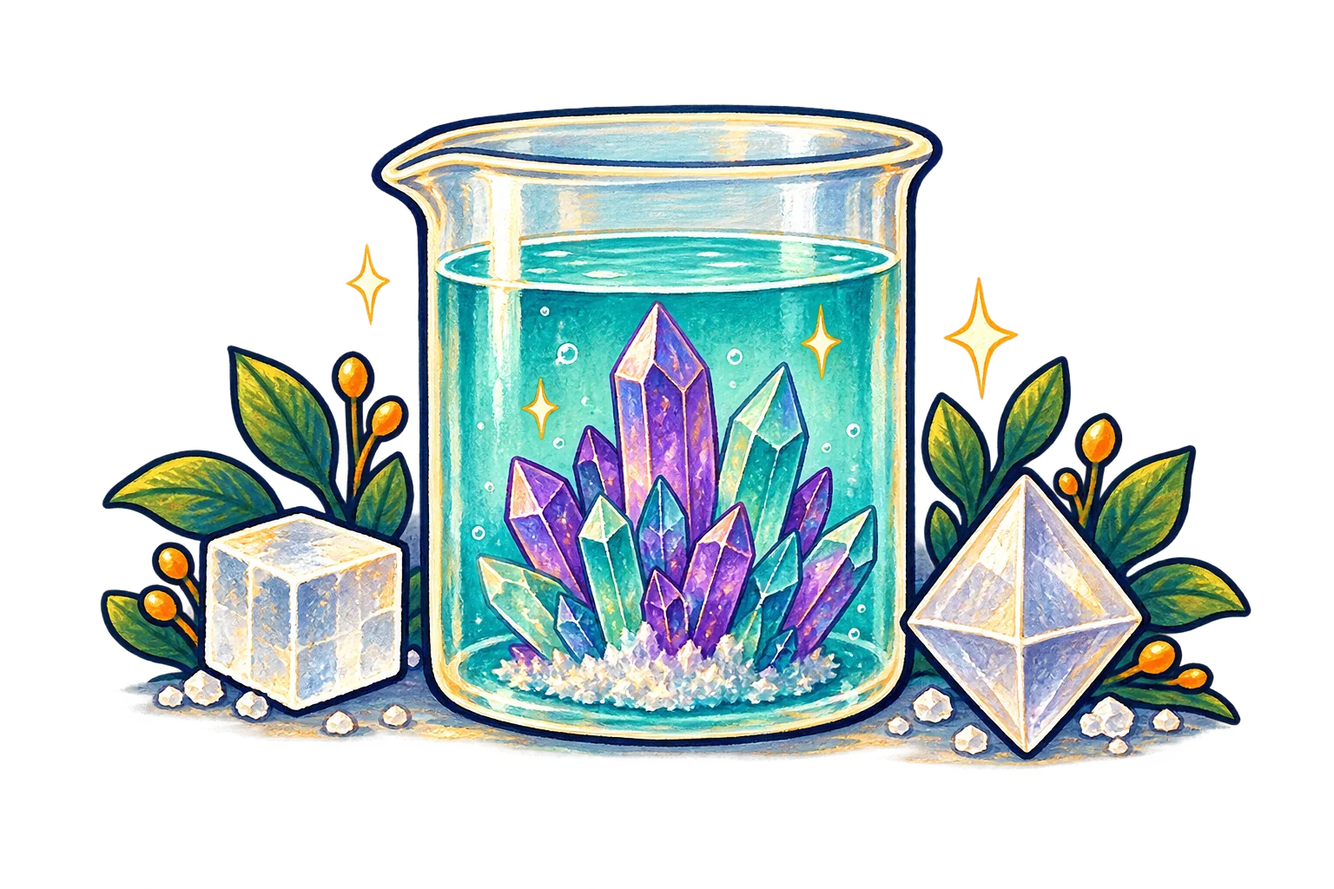
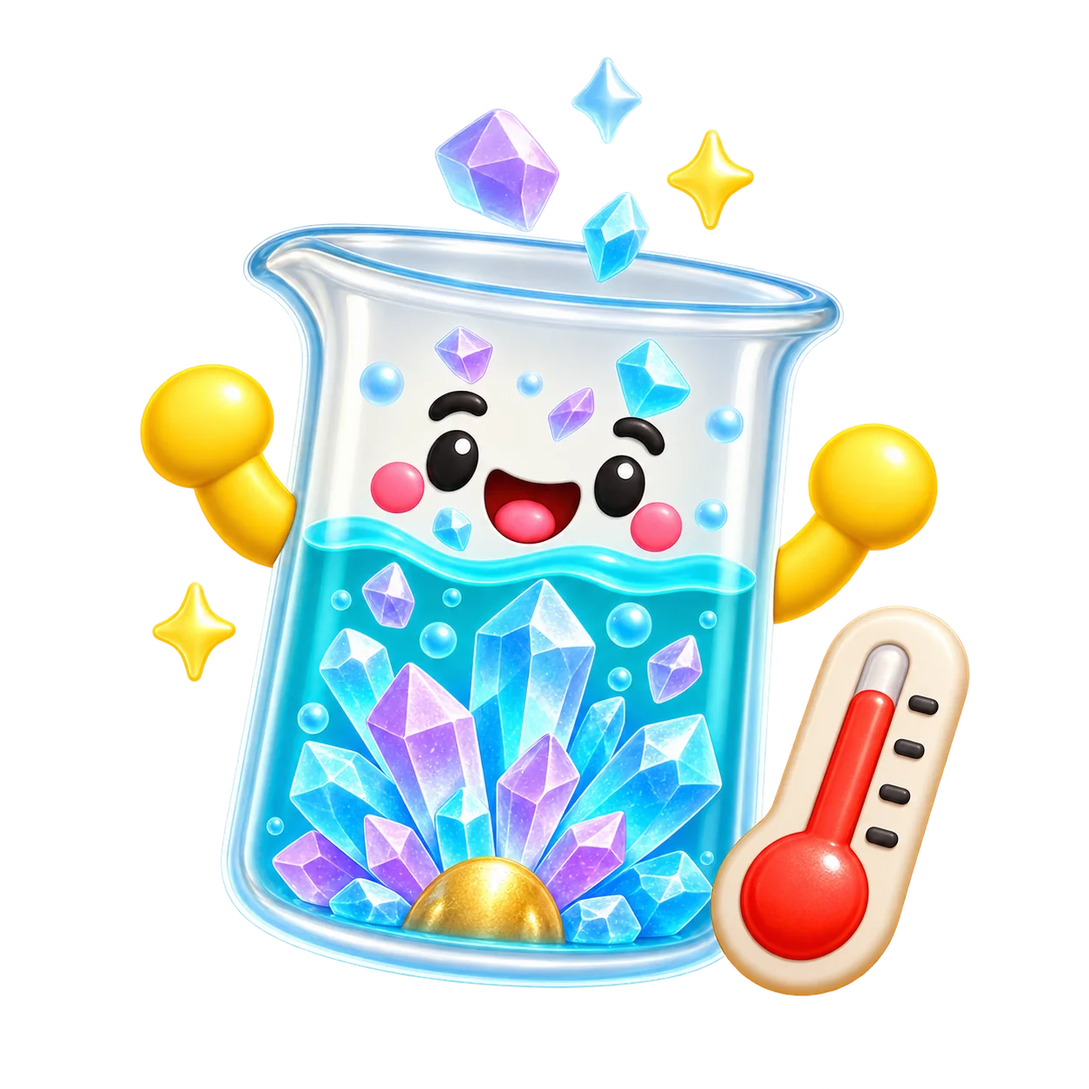
更新晶體花園溫度過飽和模型、晶簇動畫及實物圖鑑（v1.2.6）

diff --git a/client/src/games/CrystalGame.tsx b/client/src/games/CrystalGame.tsx
@@ -1,83 +1,78 @@
 import { useState } from "react";
 import { motion } from "framer-motion";
 import { speak } from "@/lib/speech";
+import { initial, capacity, step, type CrystalAction } from "@/lib/crystalModel";
 
 const SPECIMENS = [
-  { name: "磷酸二氫銨", en: "ADP", shape: "四方柱配尖頂", type: "prism", color: "#9571dc", copy: "內部按四方晶系的規則重複排列，常長成帶尖頂的柱子。不同方向長得快慢不同。", formula: "NH₄H₂PO₄" },
-  { name: "明礬", en: "Alum", shape: "八面體", type: "octa", color: "#55bcb9", copy: "常見形狀像兩個方形金字塔底對底，共有八個三角形面。它屬於立方晶系，外形卻不一定是方塊！", formula: "KAl(SO₄)₂·12H₂O" },
-  { name: "食鹽", en: "Salt", shape: "立方體", type: "cube", color: "#e5aa51", copy: "鈉離子和氯離子有規則地交替排列，常長成方方正正的立方體。", formula: "NaCl" },
-  { name: "水晶", en: "Quartz", shape: "六邊柱配尖頂", type: "quartz", color: "#6fafe0", copy: "矽和氧連成重複的立體網絡。常見外形有六個柱面；常溫水晶屬於三方晶系。不是把粉倒進熱水就能種出來！", formula: "SiO₂" },
-] as const;
-
-function Gem({ type, color }: { type: string; color: string }) {
-  return <svg viewBox="0 0 180 200" role="img" aria-label={type === "cube" ? "立方體" : type === "octa" ? "八面體" : "帶尖頂的晶柱"} style={{ color }}>
-    {type === "cube" ? <g stroke="#18304c" strokeWidth="3"><path fill="currentColor" d="M25 60 90 25 155 60 155 140 90 178 25 140Z"/><path fill="#fff" opacity=".5" d="M25 60 90 25 155 60 90 98Z"/><path fill="#18304c" opacity=".2" d="M90 98 155 60 155 140 90 178Z"/><path fill="none" d="M25 60 90 98 155 60M90 98V178"/></g>
-    : type === "octa" ? <g stroke="#18304c" strokeWidth="3"><path fill="currentColor" d="M90 15 165 100 90 185 15 100Z"/><path fill="#fff" opacity=".45" d="M90 15V118L15 100Z"/><path fill="#18304c" opacity=".2" d="M90 118 165 100 90 185Z"/><path fill="none" d="M15 100 90 118 165 100M90 15V185"/></g>
-    : <g stroke="#18304c" strokeWidth="3"><path fill="currentColor" d="M90 10 140 65 140 165 90 190 40 165 40 65Z"/><path fill="#fff" opacity=".5" d="M90 10 90 85 40 65Z"/><path fill="#18304c" opacity=".2" d="M90 85 140 65 140 165 90 190Z"/><path fill="none" d="M40 65 90 85 140 65M90 85V190"/>{type === "quartz" && <path fill="none" d="M65 72V178M115 75V178"/>}</g>}
+  { name: "磷酸二氫銨", en: "ADP", id: "adp", shape: "四方柱 · 尖頂", copy: "像有尖屋頂的小柱子！內部按四方晶系的規則重複排列，常形成四方柱和錐形晶面。", formula: "NH₄H₂PO₄", file: "Ammonium_Dihydrogen_Phosphate_crystals.jpg", author: "Damien Miller", license: "CC BY 3.0", url: "https://creativecommons.org/licenses/by/3.0/" },
+  { name: "明礬", en: "Alum", id: "alum", shape: "八面體", copy: "像兩個方形金字塔底對底，有八個三角形面。真實晶體的面不一定一樣大。", formula: "KAl(SO₄)₂·12H₂O", file: "Potassium_alum_octahedral_like_crystal.jpg", author: "Ude", license: "CC BY-SA 3.0", url: "https://creativecommons.org/licenses/by-sa/3.0/" },
+  { name: "食鹽", en: "Salt", id: "salt", shape: "立方體", copy: "像小方塊！鈉離子和氯離子有規則地交替排列，常形成互相垂直的方形晶面。這張實物有一個方向長得較長。", formula: "NaCl", file: "Halite-251628.jpg", author: "Rob Lavinsky, iRocks.com", license: "CC BY-SA 3.0", url: "https://creativecommons.org/licenses/by-sa/3.0/" },
+  { name: "水晶", en: "Quartz", id: "quartz", shape: "六方柱外形 · 多面尖頂", copy: "找找六個柱面和頂端的斜面！常溫水晶屬於三方晶系，常見外形卻是六方柱，尖頂由菱面體晶面組成，不是四角金字塔。", formula: "SiO₂", file: "Quartz_Crystal.jpg", author: "USGS", license: "公有領域", url: "https://www.usgs.gov/information-policies-and-instructions/copyrights-and-credits" },
+];
+const hints: Record<CrystalAction, string> = {
+  add: "晶粉先沉到底部，攪拌看看能溶多少。", stir: "攪拌幫晶粉溶解，但不能超過現在的平衡容量。",
+  heat: "升溫了！這種模型晶粉能溶得更多。試試攪拌，再降溫。", cool: "降溫讓容量減少；已溶解的粒子若超過容量，就是過飽和！",
+  seed: "半圓晶種是排隊起點。按「過一天」，看看不同方向的晶柱！", day: "蒸發了 15 ml 水。多出的粒子可以加入晶簇；沒有晶種時，過飽和可能暫時保留。",
+  water: "加了 15 ml 水，容量增加；原來的晶體也可能重新溶解。",
+};
+function Cluster({ amount, seeded }: { amount: number; seeded: boolean }) {
+  return <svg className="crystal-cluster" viewBox="0 0 260 250" role="img" aria-label="半圓晶種與向不同方向生長的晶簇">
+    <defs><linearGradient id="crystal-facet" x2="1" y2="1"><stop stopColor="#e2dbff"/><stop offset=".5" stopColor="#a784ed"/><stop offset="1" stopColor="#5a9dd1"/></linearGradient></defs>
+    {[-65, -43, 37, 62, -22, 19, -5, 48, -48].map((angle, i) => {
+      const growth = Math.min(1, Math.max(0, amount - i * .25) / (12 + i % 3 * 3));
+      return <g key={angle} transform={`translate(${130 + (i % 3 - 1) * 13} 220) rotate(${angle})`}>
+        <motion.path initial={false} animate={{ d: `M${-13 * Math.min(1,growth*2)} 0V${-114*growth}L0 ${-142*growth} ${16*Math.min(1,growth*2)} ${-112*growth}V0Z`, opacity: growth > 0 ? 1 : 0 }} transition={{ duration: 1.8, delay: i * .07 }} fill="url(#crystal-facet)" stroke="#68529b" strokeWidth="1.4"/>
+        <motion.path initial={false} animate={{ d: `M0 0V${-109*growth}L${-13*Math.min(1,growth*2)} ${-114*growth} 0 ${-142*growth} ${16*Math.min(1,growth*2)} ${-112*growth} 0 ${-109*growth}`, opacity: growth > 0 ? 1 : 0 }} transition={{ duration: 1.8, delay: i * .07 }} fill="#fff" fillOpacity=".36" stroke="#fff" strokeOpacity=".65"/>
+      </g>;
+    })}
+    {seeded && <g><path d="M96 226a34 34 0 0 1 68 0Z" fill="#eabd68" stroke="#b98337" strokeWidth="2"/><path d="M106 217a25 25 0 0 1 28-22" fill="none" stroke="#fff2be" strokeWidth="5" strokeLinecap="round"/></g>}
   </svg>;
 }
-
-type Sample = { temp: number; water: number; dissolved: number; powder: number; crystal: number; seeded: boolean; day: number };
-const initial: Sample = { temp: 80, water: 80, dissolved: 0, powder: 0, crystal: 0, seeded: false, day: 0 };
-const capacity = (s: Sample) => Math.round((4 + s.temp / 10) * s.water / 80);
-
 export default function CrystalGame() {
-  const [sample, setSample] = useState<Sample>(initial);
+  const [sample, setSample] = useState(initial);
   const [tab, setTab] = useState(0);
   const [specimen, setSpecimen] = useState(0);
-  const [layers, setLayers] = useState(1);
-  const [hint, setHint] = useState("先加幾匙晶粉，再按攪拌！");
+  const [hint, setHint] = useState("從 25°C、80 ml 水開始。先猜猜：升溫能溶進更多晶粉嗎？");
+  const [effect, setEffect] = useState({ action: "", tick: 0 });
   const cap = capacity(sample);
   const status = sample.dissolved > cap ? "過飽和" : sample.dissolved === cap ? "飽和" : "未飽和";
-  const info = sample.dissolved > cap ? "水裡暫時擠着太多已溶解的粒子，晶種可以幫它們排隊。" : sample.dissolved === cap ? "在這個溫度和水量下，已達到平衡溶解容量。" : "現在還能溶進更多晶粉。";
-  const material = SPECIMENS[specimen];
-  const act = (action: "add" | "stir" | "cool" | "seed" | "day" | "water") => {
-    setSample(s => {
-      const n = { ...s };
-      if (action === "add") { n.powder += 2; setHint("粉末先沉在底部。攪拌看看能溶多少！"); }
-      if (action === "stir") { const amount = Math.min(n.powder, Math.max(0, capacity(n) - n.dissolved)); n.powder -= amount; n.dissolved += amount; setHint(amount ? "粉末分散到水裡了，但沒有消失。" : "容量滿了！再攪拌也不能無限溶解。"); }
-      if (action === "cool") { n.temp = Math.max(20, n.temp - 20); setHint("降溫後，這種模型晶粉的平衡溶解容量變少了。"); }
-      if (action === "water") { n.water = Math.min(120, n.water + 20); setHint("水變多，能容納的晶粉也變多。"); }
-      if (action === "seed") { n.seeded = true; setHint("晶種是排隊起點。按「過一天」觀察！"); }
-      if (action === "day") {
-        n.day += 1; n.water = Math.max(20, n.water - 5);
-        const excess = Math.max(0, n.dissolved - capacity(n));
-        if (n.seeded || n.powder > 0) { n.dissolved -= excess; n.crystal += excess; }
-        const deficit = Math.max(0, capacity(n) - n.dissolved);
-        const redissolve = Math.min(n.crystal, deficit);
-        n.crystal -= redissolve; n.dissolved += redissolve;
-        setHint(excess && (n.seeded || n.powder > 0) ? "多出的粒子加入晶體，晶體長大了！" : redissolve ? "未飽和的水讓部分晶體重新溶解。" : "水慢慢蒸發。沒有晶種時，過飽和狀態可能暫時保留。");
-      }
-      // Undissolved powder provides nucleation surfaces: do not retain a supersaturated solution beside it.
-      if (n.powder > 0 && n.dissolved > capacity(n)) { const excess = n.dissolved - capacity(n); n.dissolved -= excess; n.crystal += excess; }
-      return n;
-    });
+  const info = sample.dissolved > cap ? `已溶解 ${sample.dissolved}，比現在的容量 ${cap} 多！晶種會幫多出的粒子排隊。` : sample.dissolved === cap ? "剛好到達這個溫度、水量下的平衡容量。" : "還有空間！升溫或加水，都能讓容量增加。";
+  const act = (action: CrystalAction) => {
+    const next = step(sample, action);
+    setSample(next); setEffect(e => ({ action, tick: e.tick + 1 }));
+    setHint(next.crystal < sample.crystal ? "容量增加了，部分晶體重新溶進水裡！" : next.crystal > sample.crystal ? "多出的粒子排在一起，晶柱朝不同方向慢慢長出來！" : hints[action]);
   };
+  const material = SPECIMENS[specimen];
   return <div className="game-body crystal-game">
-    <header className="crystal-hero"><div><small>CRYSTAL GARDEN · 晶體小花園</small><h1>把看不見的粒子，種成閃亮晶體</h1><p>天天的小實驗，變成一座可以探索的花園。</p></div><img src="/images/cards/crystal-garden.webp" alt="晶體花園插畫"/></header>
+    <header className="crystal-hero"><div><small>CRYSTAL GARDEN · 晶體小花園</small><h1>一杯水，種出閃亮小森林</h1><p>升溫、降溫、等一天，看看粒子怎樣排隊！</p></div><img src="/images/cards/crystal-garden.webp" alt="立體晶體小花園"/></header>
     <nav className="crystal-tabs">{["① 調一杯晶體水", "② 晶體形狀館"].map((title, i) => <button key={title} aria-pressed={tab === i} onClick={() => setTab(i)}>{title}</button>)}</nav>
     {tab === 0 ? <div className="crystal-workspace">
-      <section className="crystal-scene"><div className="crystal-scene-top"><b>第 {sample.day} 天</b><span>{sample.temp}°C · {sample.water} 份水</span></div>
-        <div className="crystal-vessel"><motion.div className="crystal-water" animate={{ height: `${sample.water / 120 * 75}%` }}>
-          {Array.from({ length: sample.dissolved }, (_, i) => <motion.i key={i} style={{ left: `${8 + i * 29 % 82}%`, top: `${8 + i * 19 % 65}%` }} animate={{ x: [-5, 7, -5], y: [0, -10, 0] }} transition={{ duration: 2 + i % 3, repeat: Infinity }}/>)}
-        </motion.div>
-        <div className="crystal-bed">{Array.from({ length: Math.min(24, sample.powder) }, (_, i) => <i key={i}/>)}</div>
-        {(sample.seeded || sample.crystal > 0) && <motion.div className="growing-gem" animate={{ scale: Math.min(1.6, .22 + sample.crystal * .095) }} transition={{ type: "spring", damping: 12 }}><Gem type="prism" color="#9270d8"/></motion.div>}
-        </div><div className="crystal-status"><h2>{status} <small>{status === "過飽和" ? "Supersaturated" : status === "飽和" ? "Saturated" : "Unsaturated"}</small></h2><p>{info}</p></div>
+      <section className="crystal-scene"><div className="crystal-scene-top"><b>第 {sample.day} 天</b><span>🌡 {sample.temp}°C · 💧 {sample.water} ml 毫升</span></div>
+        <div className={`crystal-vessel crystal-effect-${effect.action}`}>
+          <motion.div className="crystal-water" animate={{ height: `${sample.water / 140 * 83}%`, backgroundColor: sample.temp > 55 ? "#ffd5bd" : "#9be8ee" }} transition={{ duration: 1.2 }}>
+            {Array.from({ length: sample.dissolved }, (_, i) => <motion.i key={i} style={{ left: `${8 + i * 29 % 82}%`, top: `${8 + i * 19 % 72}%` }} animate={{ x: [-5, 7, -5], y: [0, -(sample.temp / 4), 0] }} transition={{ duration: 3 - sample.temp / 50 + i % 2, repeat: Infinity }}/>) }
+          </motion.div>
+          <div className="crystal-graduations" aria-hidden="true"><span>140 ml ─</span><span>100 ─</span><span>60 ─</span><span>20 ─</span></div>
+          <div className="crystal-bed">{Array.from({ length: Math.min(30, sample.powder) }, (_, i) => <i key={i}/>)}</div>
+          <Cluster amount={sample.crystal} seeded={sample.seeded}/>
+          <motion.div key={effect.tick} className="crystal-action-effect" initial={{ opacity: 1, y: 25 }} animate={{ opacity: 0, y: -60 }} transition={{ duration: 1.8 }}>{effect.action === "day" ? "☀ −15 ml" : effect.action === "water" ? "💧 +15 ml" : effect.action === "heat" ? "♨ +15°C" : effect.action === "cool" ? "❄ −15°C" : effect.action === "stir" ? "🌀" : ""}</motion.div>
+        </div>
+        <div className="crystal-capacity-chart"><b>溫度 ↑　平衡容量 ↑</b><div>{[25,40,55,70,85].map(t => <span key={t} className={sample.temp === t ? "active" : ""}><i style={{ height: 12 + (t - 25) * .6 }}/><strong>{capacity({ ...sample, temp: t })}</strong><small>{t}°C</small></span>)}</div><small>同樣 {sample.water} ml 水 · 晶粉粒子量（示意）</small></div>
+        <div className="crystal-status" data-status={status}><h2>{status} <small>{status === "過飽和" ? "Supersaturated" : status === "飽和" ? "Saturated" : "Unsaturated"}</small></h2><p>{info}</p></div>
         <div className="crystal-counts"><span>已溶解 <b>{sample.dissolved}</b></span><span>平衡容量 <b>{cap}</b></span><span>未溶粉末 <b>{sample.powder}</b></span><span>長成晶體 <b>{sample.crystal}</b></span></div>
       </section>
       <aside className="crystal-panel"><h2>你的實驗工具</h2><div className="crystal-tools">
-        <button disabled={sample.dissolved + sample.powder + sample.crystal >= 30} onClick={() => act("add")}>🥄 加兩份晶粉</button><button onClick={() => act("stir")}>🌀 攪拌溶解</button>
-        <button disabled={sample.temp <= 20} onClick={() => act("cool")}>❄ 降溫 20°C</button><button disabled={sample.seeded} onClick={() => act("seed")}>💎 放入晶種</button>
-        <button onClick={() => act("day")}>☀ 過一天</button><button disabled={sample.water >= 120} onClick={() => act("water")}>💧 加一點水</button>
-      </div><p className="crystal-hint" aria-live="polite">{hint}</p><button className="crystal-read" onClick={() => speak(hint + info, "zh")}>🔊 聽小提示</button>
-      <div className="crystal-mission"><h3>結晶 · Crystallization</h3><p>原本散在水裡的粒子，有規則地排在一起，變成固體晶體。</p><h3>試試這條探索路線</h3><p>加粉六次 → 攪拌 → 降溫 → 放晶種 → 過一天。</p><p>再加水，晶體會怎樣？</p></div>
-      <button onClick={() => { setSample(initial); setHint("新的實驗開始！"); }}>↺ 重新開始</button>
-      <small>這是示意模型，份數不是克數，也不是實驗配方。真實生長可能需要數天；過飽和也可能自行成核。種晶本身不計入晶粉份數。</small>
+        <button disabled={sample.temp >= 85} onClick={() => act("heat")}>♨ 升溫 15°C</button><button disabled={sample.temp <= 25} onClick={() => act("cool")}>❄ 降溫 15°C</button>
+        <button disabled={sample.dissolved + sample.powder + sample.crystal >= 40} onClick={() => act("add")}>🥄 加一匙晶粉</button><button onClick={() => act("stir")}>🌀 攪拌溶解</button>
+        <button disabled={sample.seeded} onClick={() => act("seed")}>🌱 放入半圓晶種</button><button disabled={sample.water < 15} onClick={() => act("day")}>☀ 過一天 −15 ml</button><button disabled={sample.water > 125} onClick={() => act("water")}>💧 加一點水 +15 ml</button>
+      </div><p className="crystal-hint" aria-live="polite">{hint}</p><button onClick={() => speak(hint + info, "zh")}>🔊 聽小提示</button>
+      <div className="crystal-mission"><h3>試試：熱水變冷水</h3><p>升溫兩次 → 加粉六次 → 攪拌 → 降溫兩次。</p><p>容量從 12 變成 6，已溶解的 12 還在水裡：過飽和了！</p><p>放晶種 → 過一天：粒子排隊，長成晶簇。</p><h3>結晶 · Crystallization</h3><p>分散的粒子按規則排好，變成固體。再升溫或加水，會怎樣？</p></div>
+      <button onClick={() => { setSample(initial); setHint("新的實驗：25°C、80 ml 水。先猜再試！"); setEffect({ action: "", tick: 0 }); }}>↺ 重新開始</button>
+      <small>水量單位：ml（毫升）。晶粉以模型粒子量計算，一匙＝2；不是克數或配方。溫度範圍 25–85°C；水少於 15 ml 時先加水。蒸發速度、容量和晶簇顏色均為教學示意；並非所有物質都同樣隨升溫增加溶解度。晶種本身不計入晶粉量。</small>
       </aside>
-    </div> : <section className="crystal-gallery"><div className="crystal-specimens">{SPECIMENS.map((s, i) => <button key={s.en} aria-pressed={specimen === i} onClick={() => { setSpecimen(i); setLayers(1); }}><Gem type={s.type} color={s.color}/><b>{s.name}</b><small>{s.en}</small></button>)}</div>
-      <div className="crystal-exhibit"><div className="crystal-large-gem"><motion.div key={specimen} animate={{ rotateY: [0, 22, 0], scale: .65 + layers * .07 }} transition={{ rotateY: { repeat: Infinity, duration: 5 }, scale: { duration: .5 } }}><Gem type={material.type} color={material.color}/></motion.div></div>
-<div><small>{material.formula}</small><h2>{material.name} · {material.shape}</h2><p>{material.copy}</p><button onClick={() => setLayers(n => n >= 5 ? 1 : n + 1)}>✨ {layers >= 5 ? "重新觀察" : "長大一層"}</button><button onClick={() => speak(material.copy, "zh")}>🔊 聽解說</button><p className="crystal-hint">粒子按自己的規則重複排列；各個晶面長得快慢不同，形成不同外形。不是杯子把晶體壓成這個形狀！</p><small>展示常見理想晶形。溫度、雜質和生長空間也會影響外觀；顏色只是方便辨認。放大動畫是形狀示意，並非原子排列圖。</small></div></div></section>}
-    <details className="crystal-notes"><summary>給大人的實驗筆記與資料來源</summary><p>照片介紹熱水溶解、冷卻、加入晶種及靜置 4–7 天，但未列出晶粉成分，不能確認是哪種物質。套裝晶體不等於二氧化矽水晶。熱水與晶粉由成人處理，勿品嚐；依原套裝說明操作。</p><p>食鹽的溶解度隨溫度變化較小，常用蒸發法；水晶的形成條件與套裝水溶液實驗不同。</p><a href="https://www.mrsec.psu.edu/education-outreach/public/nano-activities-kids/liquid-metal/growing-crystals" target="_blank" rel="noreferrer">Penn State：晶體生長</a> · <a href="https://www.sciencedirect.com/science/article/pii/S0022024822003025" target="_blank" rel="noreferrer">ADP 晶體研究</a> · <a href="https://www.mindat.org/min-3337.html" target="_blank" rel="noreferrer">水晶晶形資料</a></details>
+    </div> : <section className="crystal-gallery"><div className="crystal-specimens">{SPECIMENS.map((s, i) => <button key={s.en} aria-pressed={specimen === i} onClick={() => setSpecimen(i)}><img src={`/images/crystals/${s.id}.webp`} alt={`${s.name}實物照片`}/><b>{s.name}</b><small>{s.en}</small></button>)}</div>
+      <div className="crystal-exhibit"><figure className="crystal-photo"><motion.img key={material.id} initial={{ opacity: 0, scale: .96 }} animate={{ opacity: 1, scale: 1 }} src={`/images/crystals/${material.id}.webp`} alt={`${material.name}：${material.shape}實物照片`}/><figcaption>實物照片 · {material.author}<br/><a href={`https://commons.wikimedia.org/wiki/File:${material.file}`} target="_blank" rel="noreferrer">原始照片</a> · <a href={material.url} target="_blank" rel="noreferrer">{material.license}</a><br/>僅轉為 WebP，保留原圖比例</figcaption></figure>
+      <div><small>{material.formula}</small><h2>{material.name} · {material.shape}</h2><p>{material.copy}</p><button onClick={() => speak(material.copy, "zh")}>🔊 聽解說</button><p className="crystal-hint">裡面的排列規則，加上各個晶面生長的快慢，決定晶體外形。不是杯子把它壓成這個形狀！</p><p>找一找：實物的晶面，和你想像的一樣嗎？</p><small>晶簇由許多晶體朝不同方向生長而成。天然水晶不是把套裝晶粉倒進熱水就能種出來。</small></div></div></section>}
+    <details className="crystal-notes"><summary>給大人的實驗筆記與資料來源</summary><p>套裝照片未列晶粉成分，不能判定是磷酸二氫銨。請依原說明，由成人處理熱水和晶粉，勿品嚐。過飽和是暫時狀態，也可能自行成核；本遊戲用晶種與時間按鈕放慢過程。未溶粉末也能提供成核表面。</p><p>食鹽溶解度隨溫度變化較小；水晶（二氧化矽）的形成條件與套裝實驗不同。</p><a href="https://www.mrsec.psu.edu/education-outreach/public/nano-activities-kids/liquid-metal/growing-crystals" target="_blank" rel="noreferrer">Penn State：晶體生長</a> · <a href="https://www.jstage.jst.go.jp/article/jcrsj1940/5/1-2/5_1-2_21/_article" target="_blank" rel="noreferrer">ADP 晶體結構研究</a> · <a href="https://www.mindat.org/min-3337.html" target="_blank" rel="noreferrer">水晶晶形資料</a></details>
   </div>;
 }

diff --git a/client/src/index.css b/client/src/index.css
@@ -1450,6 +1450,21 @@ body { overflow-x: hidden; }
 .guide-舒展 i:first-child { inset:5% 6%; }.guide-舒展 i:nth-child(2) { inset:25% 37% 25%; }
 @media(min-width:701px) and (max-width:1000px) { .hanzi-flat-list { grid-template-columns:repeat(10,1fr); } }
 
+.crystal-cluster { position:absolute; inset:auto 0 -15px; width:100%; height:90%; pointer-events:none; filter:drop-shadow(0 5px 3px #57448230); }
+.crystal-graduations { position:absolute; right:8px; top:17%; bottom:11%; display:flex; flex-direction:column; justify-content:space-between; color:#37788a; font:12px "Nunito"; }
+.crystal-action-effect { position:absolute; left:20%; top:35%; z-index:3; font-size:24px; font-weight:900; color:#754595; pointer-events:none; text-shadow:0 2px white; }
+.crystal-capacity-chart { padding:12px; margin-bottom:12px; border-radius:16px; background:#ffffffb8; text-align:center; }
+.crystal-capacity-chart>div { display:flex; align-items:end; justify-content:center; gap:12px; margin:12px 0 5px; }
+.crystal-capacity-chart span { display:flex; flex-direction:column; align-items:center; padding:5px 8px; border-radius:8px; color:#6f7287; }
+.crystal-capacity-chart span.active { background:#fff0ce; color:#18304c; outline:2px solid #e6b865; }
+.crystal-capacity-chart i { width:25px; background:linear-gradient(#edbf88,#9e8cdd); border-radius:5px 5px 0 0; }
+.crystal-capacity-chart small { font-size:12px; }.crystal-status[data-status="過飽和"] { background:#fff0d4; outline:2px solid #e9b45f; }
+.crystal-specimens img { width:100%; height:140px; object-fit:contain; border-radius:10px; margin-bottom:10px; background:#edf0f1; }
+.crystal-photo { margin:0; min-width:0; display:flex; flex-direction:column; justify-content:center; gap:14px; }
+.crystal-photo>img { width:100%; height:360px; object-fit:contain; background:#eff2f3; border-radius:18px; }
+.crystal-photo figcaption { font-size:12px; color:#697186; line-height:1.7; text-align:center; }.crystal-photo a { text-decoration:underline; }
+@media(max-width:600px) { .crystal-capacity-chart>div { gap:3px; }.crystal-photo>img { height:280px; }.crystal-scene-top { flex-wrap:wrap; gap:8px; } }
+@media(prefers-reduced-motion:reduce) { .crystal-game *, .crystal-game *::before { animation:none!important; transition:none!important; } }
 .crystal-game { max-width:1320px; width:100%; }
 .crystal-game button { cursor:pointer; min-height:46px; border:2px solid #18304c; border-radius:12px; padding:10px 14px; background:#fffdf7; color:#18304c; font-weight:800; transition:background .2s,transform .2s; }
 .crystal-game button:hover { background:#fff0d6; transform:translateY(-2px); }.crystal-game button:disabled { opacity:.45; cursor:default; transform:none; }
@@ -1458,7 +1473,7 @@ body { overflow-x: hidden; }
 .crystal-tabs { display:flex; gap:12px; margin:20px 0; }.crystal-tabs button[aria-pressed=true] { background:#decaf8; box-shadow:3px 4px 0 #18304c; }
 .crystal-workspace { display:grid; grid-template-columns:1.25fr 1fr; gap:20px; }.crystal-scene { padding:22px; border:2px solid #a9cfd1; border-radius:24px; background:radial-gradient(ellipse at 50% 20%,#fff,#e8f5f7 65%,#ecdfcf); }
 .crystal-scene-top { display:flex; justify-content:space-between; color:#436a7c; }.crystal-vessel { position:relative; width:260px; height:300px; margin:28px auto 20px; border:7px solid #79aebb; border-top:3px solid #bce6ea; border-radius:10px 10px 45px 45px; overflow:hidden; background:#ffffff85; box-shadow:inset 12px 0 0 #ffffff85,0 18px 20px #5b859b20; }
-.crystal-water { position:absolute; bottom:0; width:100%; background:linear-gradient(#65dadd99,#62aeda99); border-top:4px solid #b5ffff; }.crystal-water i { position:absolute; width:10px; height:10px; border-radius:50%; background:#9971dd; box-shadow:0 0 0 3px #ffffff55; }
+.crystal-water { position:absolute; bottom:0; width:100%; background:linear-gradient(#65dadd55,#62aeda99); border-top:4px solid #b5ffff; transition:height 1s; }.crystal-water i { position:absolute; width:8px; height:8px; border-radius:50%; background:#9971dd; box-shadow:0 0 0 3px #ffffff55; }
 .crystal-bed { position:absolute; bottom:6px; left:8%; right:8%; display:flex; flex-wrap:wrap; justify-content:center; gap:3px; }.crystal-bed i { width:12px; height:9px; background:#8863b9; border-radius:3px; }
 .growing-gem { position:absolute; width:145px; left:50%; margin-left:-72px; bottom:5px; transform-origin:bottom; }.growing-gem svg { width:100%; display:block; }
 .crystal-status { padding:15px; border-radius:16px; background:#ffffffcf; }.crystal-status h2 { margin:0; color:#7852a3; }.crystal-status small { font-size:13px; }.crystal-status p { margin:8px 0 0; font-size:18px; line-height:1.6; }

diff --git a/client/src/lib/crystalModel.ts b/client/src/lib/crystalModel.ts
@@ -1,0 +1,27 @@
+export type Sample = { temp: number; water: number; dissolved: number; powder: number; crystal: number; seeded: boolean; day: number };
+export type CrystalAction = "add" | "stir" | "heat" | "cool" | "seed" | "day" | "water";
+export const initial: Sample = { temp: 25, water: 80, dissolved: 0, powder: 0, crystal: 0, seeded: false, day: 0 };
+// Teaching units, not a measured solubility curve or a real recipe.
+export const capacity = (s: Sample) => Math.round((6 + (s.temp - 25) / 5) * s.water / 80);
+export function step(s: Sample, action: CrystalAction): Sample {
+  const n = { ...s };
+  if (action === "add" && n.dissolved + n.powder + n.crystal < 40) n.powder += 2;
+  if (action === "heat") n.temp = Math.min(85, n.temp + 15);
+  if (action === "cool") n.temp = Math.max(25, n.temp - 15);
+  if (action === "water" && n.water <= 125) n.water += 15;
+  if (action === "seed") n.seeded = true;
+  if (action === "day" && n.water >= 15) { n.day++; n.water -= 15; }
+  if (action === "stir") {
+    const amount = Math.min(n.powder, Math.max(0, capacity(n) - n.dissolved));
+    n.powder -= amount; n.dissolved += amount;
+  }
+  // Powder nucleates immediately; a placed seed grows on the next time step.
+  if ((n.powder > 0 || (n.seeded && action === "day")) && n.dissolved > capacity(n)) {
+    const excess = n.dissolved - capacity(n); n.dissolved -= excess; n.crystal += excess;
+  }
+  if (["heat", "water", "stir", "day"].includes(action)) {
+    const amount = Math.min(n.crystal, Math.max(0, capacity(n) - n.dissolved));
+    n.crystal -= amount; n.dissolved += amount;
+  }
+  return n;
+}

diff --git a/client/src/pages/Home.tsx b/client/src/pages/Home.tsx
@@ -38,7 +38,7 @@ type GameMeta = {
 };
 
 const GAMES: GameMeta[] = [
-  { id: "crystal", title: "晶體小花園", subtitle: "加粉、降溫、放晶種，發現晶體長大的祕密", icon: "💎", img: "/images/cards/crystal-garden.webp", accent: "#8b68c7", stars: "飽和・結晶・形狀探險", Component: CrystalGame },
+  { id: "crystal", title: "晶體小花園", subtitle: "升溫、降溫、放晶種，種出閃亮的晶簇", icon: "💎", img: "/images/cards/crystal-garden.webp", accent: "#8b68c7", stars: "過飽和・結晶・實物圖鑑", Component: CrystalGame },
   {
     id: "matter-lab",
     title: "物質粒子實驗室",

diff --git a/client/src/lib/version.ts b/client/src/lib/version.ts
@@ -4,5 +4,5 @@
  * - 大改版用 `--part minor`，重大改動用 `--part major`。
  * 版本號與更新日期由發版腳本寫入，這裡只放常數給畫面顯示。
  */
-export const APP_VERSION = "1.2.5";
+export const APP_VERSION = "1.2.6";
 export const APP_VERSION_DATE = "2026-09-21";

diff --git a/docs/crystal-cover-v2.md b/docs/crystal-cover-v2.md
@@ -1,0 +1,12 @@
+# 晶體花園封面第二版
+
+使用 imagegen 技能及內建 image_gen，參照現有 matter-lab.webp 的立體玩具風格。
+資產：client/public/images/cards/crystal-garden.webp，1254 × 1254，RGBA 透明背景，WebP quality 84 / method 6，未縮小尺寸。
+
+## 最終提示詞
+
+Use case: stylized-concept. Create replacement children's science game card cover. Input image is STYLE REFERENCE only: match its polished cute 3D toy rendering, shiny transparent glass, soft rounded forms, cheerful face, cyan water, yellow gloves, soft studio lighting exactly. Subject: smiling glass beaker containing a beautiful multi-direction cluster of lavender and cyan faceted crystals growing from a small semicircular golden seed at bottom, with one small red thermometer beside it and a few floating sparkle accents. Compact centered composition, full object visible with generous transparent margins. Genuine transparent alpha background, no floor rectangle, no text, no letters, no watermark. NOT watercolor, NOT flat illustration. Square 1024px.
+
+## 實物照片
+
+四張照片皆來自 Wikimedia Commons；來源、作者及授權連結已展示於遊戲內。僅轉 WebP，未裁剪或改變尺寸。明礬及食鹽照片維持 CC BY-SA 3.0，ADP 為 CC BY 3.0，USGS 水晶照片為公有領域。
